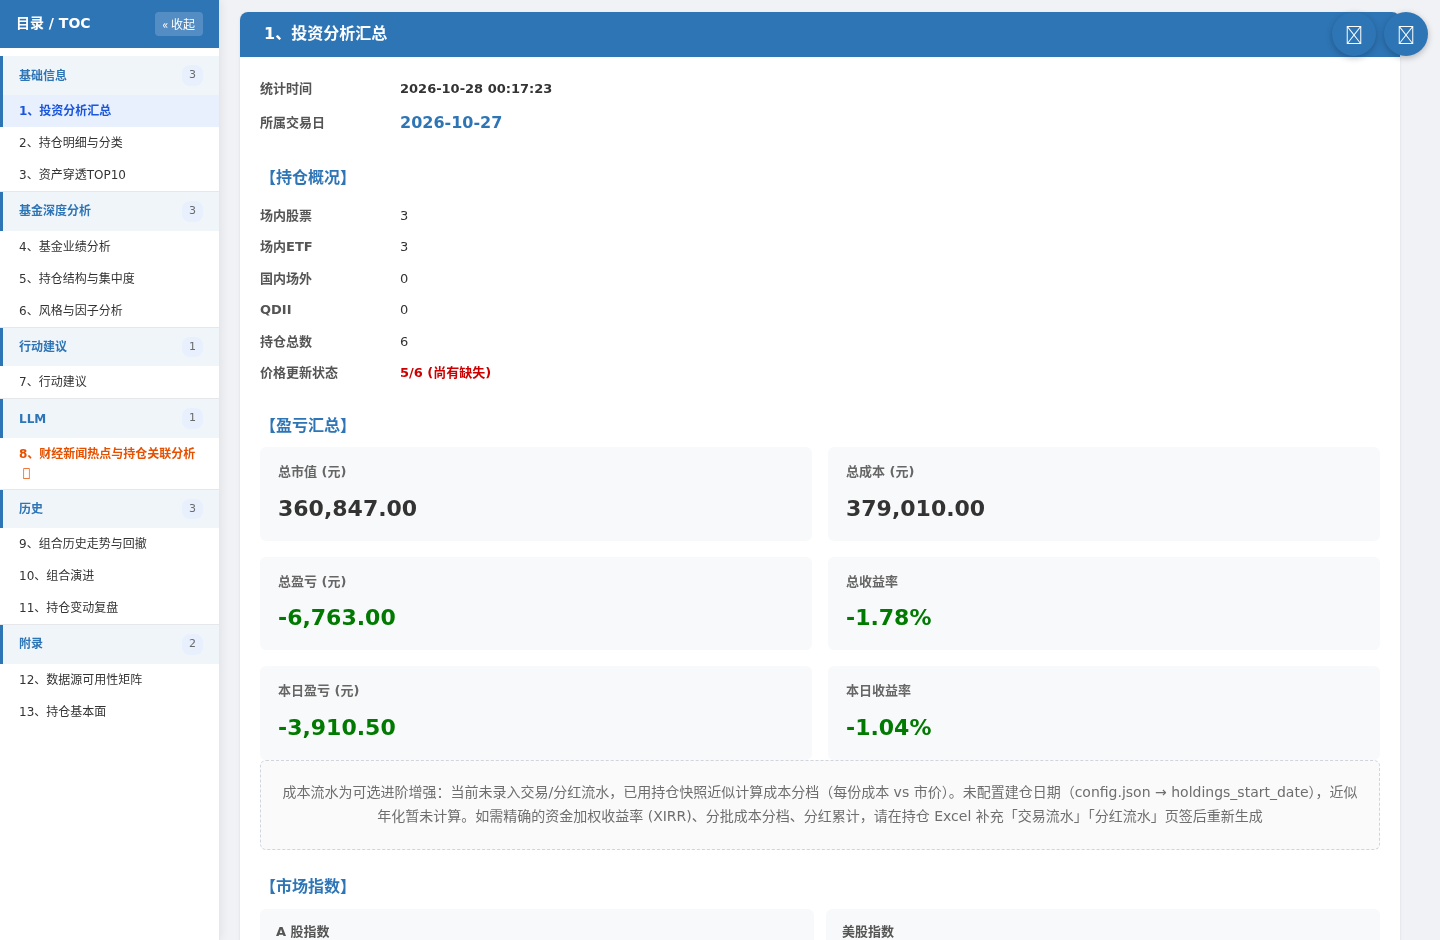
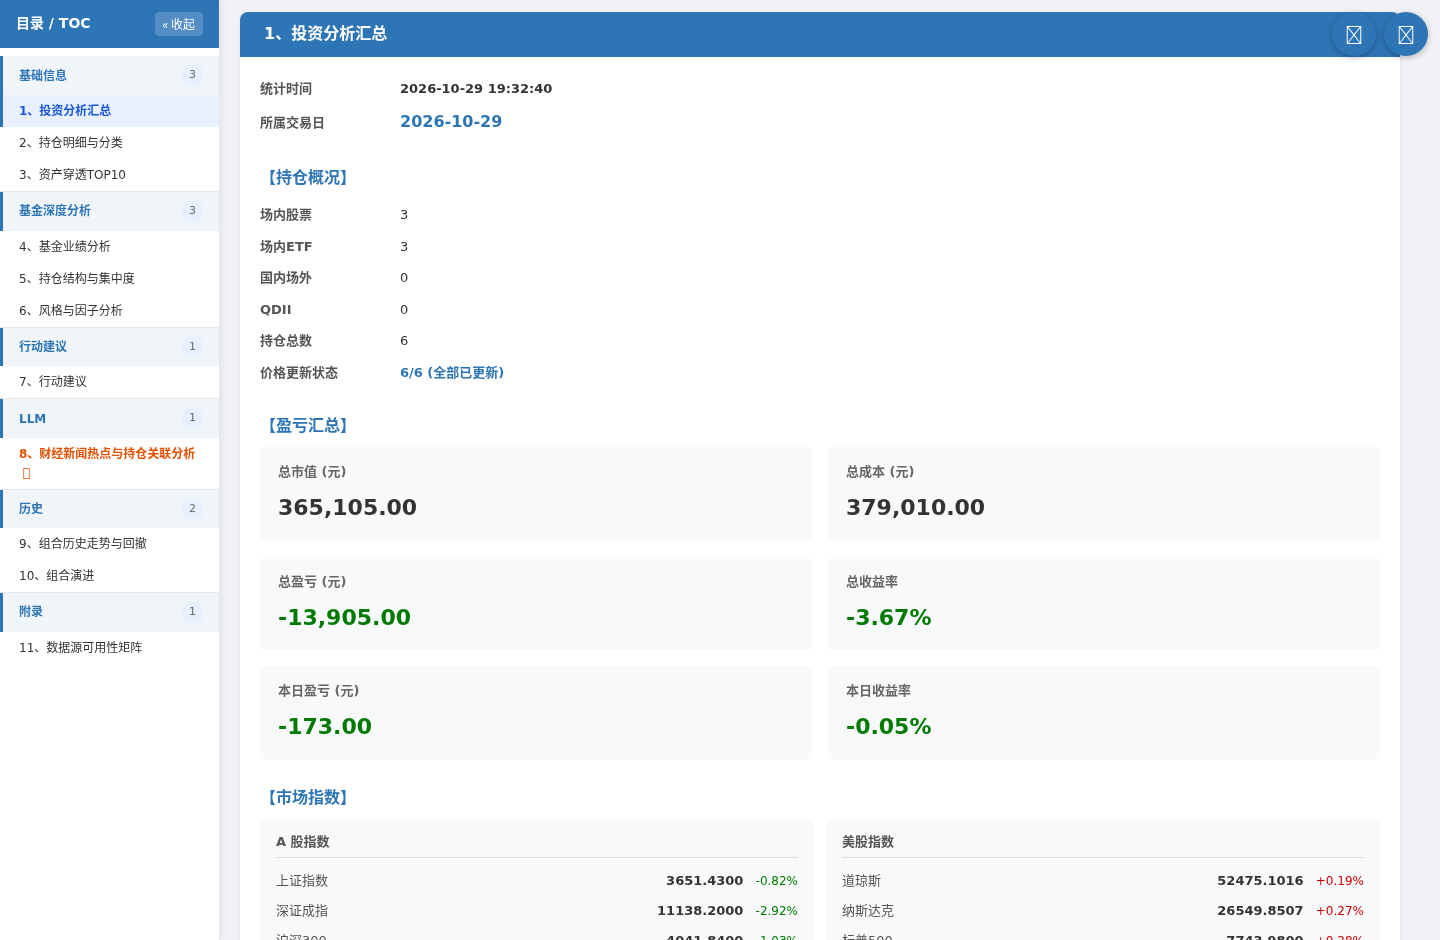
feat(screenshots): 演示截图流水线固化 + 按虚构持仓重拍全部配图
- demo 工作区补 src/ 软链：PROJECT_ROOT 搬到演示根后模板与静态资产仍可解析（修 HTML 报告 TemplateNotFound）
- make-screenshots.py web 新增 --serve-demo：自起演示服务（env 统一走 isolation_env），URL 端口自动替换
- 重拍 TUI / Web（工作台·持仓录入·配置）/ 报告（首屏·汇总·图表）/ CLI 共 8 张，全部来自虚构演示持仓（演示账户A/B、演示持仓.xlsx）
- README 新增 web-holdings.png 配图与链接；folders 目录树同步

diff --git a/scripts/make-screenshots.py b/scripts/make-screenshots.py
@@ -75,25 +75,69 @@ def _cli(args: argparse.Namespace) -> int:
 
 
 def _web(args: argparse.Namespace) -> int:
-    # 截图只允许对演示工作区（服务端须带 isolation_env 启动，见 demo_workspace 文档）
-    import os as _os
-
+    """无头截图；``--serve-demo`` 时自起演示服务（环境与工作区由本脚本统一注入）。"""
     demo_workspace.assert_demo_holdings()
-    if (
-        _os.environ.get("INVEST_PROJECT_ROOT")
-        and Path(_os.environ["INVEST_PROJECT_ROOT"]).resolve() != demo_workspace.demo_dir().resolve()
-    ):
-        print("  [ERR] INVEST_PROJECT_ROOT 未指向演示工作区，拒绝截图（防真实持仓入图）")
-        return 2
-    return web_shot.run(
-        args.url,
-        args.output,
-        scroll_y=args.scroll_y,
-        width=args.width,
-        height=args.height,
-        replace=args.replace,
-        chrome=args.chrome,
+    server = None
+    url = args.url
+    if args.serve_demo:
+        server, url = _start_demo_server(args.url)
+    try:
+        return web_shot.run(
+            url,
+            args.output,
+            scroll_y=args.scroll_y,
+            width=args.width,
+            height=args.height,
+            replace=args.replace,
+            chrome=args.chrome,
+        )
+    finally:
+        if server is not None:
+            server.terminate()
+            try:
+                server.wait(timeout=10)
+            except Exception:  # 收尾失败不影响截图结果
+                server.kill()
+
+
+def _start_demo_server(url: str) -> tuple:
+    """按演示工作区环境起 Web 服务，返回 (进程, 换成实际端口的 URL)。
+
+    环境统一走 ``demo_workspace.isolation_env``（含 ``INVEST_PROJECT_ROOT``），
+    避免手工拼 env 时漏项导致服务读到真实持仓。
+    """
+    import os as _os
+    import socket
+    import subprocess
+    import time
+    import urllib.request
+    from urllib.parse import urlparse, urlunparse
+
+    demo = demo_workspace.demo_dir()
+    with socket.socket() as sock:
+        sock.bind(("127.0.0.1", 0))
+        port = sock.getsockname()[1]
+    env = {
+        **_os.environ,
+        "PYTHONPATH": str(demo_workspace.REPO_ROOT),
+        **demo_workspace.isolation_env(demo),
+    }
+    server = subprocess.Popen(
+        [_os.sys.executable, "-m", "src.python.web", "--port", str(port)],
+        cwd=str(demo),
+        env=env,
+        stdout=subprocess.DEVNULL,
+        stderr=subprocess.DEVNULL,
     )
+    parsed = urlparse(url)
+    target = urlunparse(parsed._replace(netloc=f"127.0.0.1:{port}"))
+    for _ in range(60):
+        try:
+            urllib.request.urlopen(target, timeout=1).read(64)
+            break
+        except Exception:
+            time.sleep(0.5)
+    return server, target
 
 
 def build_parser() -> argparse.ArgumentParser:
@@ -135,6 +179,11 @@ def build_parser() -> argparse.ArgumentParser:
     web.add_argument("--height", type=int, default=940, help="视口高（默认 940）")
     web.add_argument("--replace", default="", help="截图前替换文本，写法 `原文=>替换`（用于抹除临时数据）")
     web.add_argument("--chrome", default=None, help="Chromium/Chrome 可执行文件（缺省按 CHROME_BIN 等次序解析）")
+    web.add_argument(
+        "--serve-demo",
+        action="store_true",
+        help="先按演示工作区环境自起 Web 服务再截图（URL 的 host:port 被替换为本机临时端口）",
+    )
     web.set_defaults(handler=_web)
     return parser
 

diff --git a/scripts/_screenshots/demo_workspace.py b/scripts/_screenshots/demo_workspace.py
@@ -167,6 +167,24 @@ def isolation_env(demo: Path) -> dict[str, str]:
     }
 
 
+def _link_repo_src(demo: Path) -> None:
+    """把仓库 ``src/`` 软链进演示根：``PROJECT_ROOT`` 指向演示根后，模板与静态资产仍可解析。
+
+    隔离的是「数据面」（``data/`` / ``reports/``），代码与模板资产不复制——
+    否则演示根会变成第二份源码树，容易与仓库漂移。
+    """
+    import os
+
+    link = demo / "src"
+    target = REPO_ROOT / "src"
+    if link.is_symlink() or link.exists():
+        return
+    try:
+        os.symlink(target, link, target_is_directory=True)
+    except OSError:
+        print(f"  [!] 无法创建 src 软链（Windows 需开发者模式）：{link}")
+
+
 def assert_demo_holdings(output_root: Path | None = None) -> Path:
     """护栏：演示持仓文件存在且位于演示目录内，否则拒绝继续（防截图读到真实持仓）。
 
@@ -195,6 +213,7 @@ def build(output_root: Path | None = None) -> Path:
     for path in (config_dir, demo / "reports"):
         path.mkdir(parents=True, exist_ok=True)
 
+    _link_repo_src(demo)
     _write_holdings(demo)
     _write_llm_files(demo)
     config = _config(demo)

diff --git a/docs/managements/folders.md b/docs/managements/folders.md
@@ -12,14 +12,14 @@
 | 主程序代码 | Python | 410 | 111,216 | `src/` 下所有 `.py`（不含测试：`src/__init__.py` 顶层包标记 + `src/python/` 下 15 个 `__init__.py`，含 `web/` 服务层；近期新增 `providers/tiantian_purchase.py` 天天基金申购状态总表 provider + `fetcher/fund_purchase.py` 申购状态取数编排（双链路/准入/会话复用） + `core/jsonl_store.py` JSONL 原子原语 + `core/signal_ledger.py` 确定性信号账本 + `report/signal_record.py` 信号登记适配器 + `core/num_utils.py` 数值归一原语 + `core/doctor.py` 系统自检 + `core/cassette.py` 请求回放引擎 + `core/datasource_credential.py` 数据源凭据声明 + `fetcher/source_adapter.py` 适配契约 + `fetcher/quote_adapters.py` 行情域适配器 + `llm/module_fingerprint.py` 模块指纹唯一事实来源 + `report/_experimental_seams.py` 实验挂载点 + `report/holdings_freshness.py` 持仓报告期时效判定 + `report/experimental_notice.py` 实验功能清单语句单源 + `core/trading_calendar.py` 交易日历原语（时间距离一律以交易日计） + `providers/datasink.py` 全文本财报 provider（密钥/限速/配额） + `providers/hithink.py` 同花顺金融数据服务 provider（A 股行情/财务/基金/情绪面；凭据/qps 限速/信封错误码） + `fetcher/financial_report.py` 财报取数编排 + `fetcher/report_adapters.py` 财报域适配器 + `report/financial_report_digest.py` 财报摘要章节装配 + `providers/akshare_financial.py` 结构化财务指标主源 + `fetcher/financial_indicator_adapters.py` 财务指标域适配器 + `core/code_symbols.py::to_fmp_symbol` 共享符号映射 + `providers/utils.py::run_with_timeout` 共享取数超时原语 + `analysis/financial_indicator_extract.py` 财务指标全文解析（压平正文锚点提取，备用支路） + `fetcher/financial_indicator.py` 财务指标多期取数编排 + `analysis/financial_indicator.py` 财务指标派生（质量档/趋势/当前 PE·PB） + `report/financial_indicator.py` 财务指标章装配 + `report/holdings_detail_sheet.py` 持仓明细与分类 Excel 页签 + `report/position_structure_sheet.py` 持仓结构与集中度 Excel 页签 + `report/fundamental_snapshot_sheet.py` 持仓基本面 Excel 页签（三者均为章节合并写入器） + `llm/compliance.py` 合规声明集中注入（幂等叠加，单一漏斗覆盖全模块）） |
 | HTML 报告模板 | HTML | 23 | 5,198 | `src/static/tmpl/report_template.html` + `whatif_template.html`（调仓 What-if 独立 HTML 页）+ `partials/`（章节级/区块级 partial，主模板按 TOC 六组经 Jinja include 拆入，清单见目录树 `partials/` 节点） |
 | 架构图示 | SVG | 4 | 396 | `src/static/` README 架构图（architecture 三渠道→引擎→双报告、llm-chain Provider 链式分发、capabilities 九大功能域总览、owl-mascot 吉祥物猫头鹰「守望」）+ 截图 7 张 PNG（报告实景 `report-overview`/`report-toc`/`report-charts` + 界面实景 `tui-menu`/`web-workbench`/`web-config`/`cli-report`，不计入本行） |
-| 辅助脚本 | Python | 135 | 26,688 | `scripts/`（启动脚本 + CLI 命令行包装、测试驱动、工具检查、任务编号检查、性能测试、LLM 幻觉率评测与因子目录评测、测试覆盖计数、代码/文档历史痕迹与结构性冗余检查、视觉资产（社交预览图/架构图体检）、语义命名索引校验、Claude Code hook 安装/校验、Web 冒烟脚本、push2 连通性诊断、SVG 架构图检查） |
-| 源代码合计 | — | 572 | 143,498 | 主程序 + 模板 + 脚本 + SVG |
+| 辅助脚本 | Python | 135 | 26,756 | `scripts/`（启动脚本 + CLI 命令行包装、测试驱动、工具检查、任务编号检查、性能测试、LLM 幻觉率评测与因子目录评测、测试覆盖计数、代码/文档历史痕迹与结构性冗余检查、视觉资产（社交预览图/架构图体检）、语义命名索引校验、Claude Code hook 安装/校验、Web 冒烟脚本、push2 连通性诊断、SVG 架构图检查） |
+| 源代码合计 | — | 572 | 143,566 | 主程序 + 模板 + 脚本 + SVG |
 | 测试代码 | Python | 678 | 185,737 | `src/test/` 所有 `.py` 文件（含近期 ruff format 全仓重排） |
 | 测试用例 | — | — | 12,769 个 | `pytest --collect-only` 统计（`scripts/test-collect-coverage.py` 实时收集快照，不含 opt-in live 套件） |
-| 用户文档 | Markdown | 15 | 6,849 | 含 README.md；行数为 README + manuals 之和 |
+| 用户文档 | Markdown | 15 | 6,851 | 含 README.md；行数为 README + manuals 之和 |
 | ├ manuals/ | 用户手册分册 | 14 | 6,631 | 配置/faq/快速上手/TUI/CLI/Web 三种模式指南等 |
-| 项目文档 | Markdown | 203 | 70,628 | 含 CLAUDE.md；md 口径为 CLAUDE.md + `managements/` + `plan/` + 版本归档之和（分项见下方三行），py/txt 不计行 |
-| ├ managements/ | 管理文档 | 13 | 13,870 | 变更日志/目录树/测试计划/技术设计/开发者指南等 |
+| 项目文档 | Markdown | 203 | 70,630 | 含 CLAUDE.md；md 口径为 CLAUDE.md + `managements/` + `plan/` + 版本归档之和（分项见下方三行），py/txt 不计行 |
+| ├ managements/ | 管理文档 | 13 | 13,872 | 变更日志/目录树/测试计划/技术设计/开发者指南等 |
 | ├ archive/ | 版本归档 | 185 | 55,990 | 各版本 changelog/plan/review-findings 与设计文档归档（含 Vibe-Trading/gs-quant/TradingAgents 借鉴批候选研究、基金申购限购三份设计与 LLM 成本调节/自检/源指定设计） |
 | ├ plan/ | 中间设计文件 | 4 | ~675 | 在办设计文档（扁平存放）：Jev 新闻关联判定（对照评测 + 类型化通道设计）+ 决策跨期反思闭环设计 |
 | └ tmp/ | 临时文件 | — | — | 调试产物、迁移暂存（git 忽略，不计入统计） |
@@ -542,6 +542,7 @@ investor-review/
 │   │   ├── report-charts.png         #   README 报告效果截图：穿透行业分布与 TOP10 持仓资产交互图表
 │   │   ├── tui-menu.png              #   README 界面实景：TUI 全键盘主菜单（页头状态行）
 │   │   ├── web-workbench.png         #   README 界面实景：Web 工作台生成报告页签（上传→选格式→生成）
+│   │   ├── web-holdings.png          #   README 界面实景：Web 持仓录入页签（账户/标的/份额或金额 → 变更清单 → 写回）
 │   │   ├── web-config.png            #   README 界面实景：Web 配置编辑面板（与 TUI 菜单同源）
 │   │   ├── cli-report.png            #   README 与 CLI 手册共用：CLI 生成回显（产物路径 / 盈亏汇总 / 耗时排行）
 │   │   ├── social-preview.jpg        #   GitHub 社交预览图 1200×630（猫头鹰左卡 + 品牌文案；make-assets.py social-preview 生成）

diff --git a/docs/managements/changelog.md b/docs/managements/changelog.md
@@ -25,6 +25,7 @@
 
 - Web 渠道持仓录入（`plan-239`）：新增「持仓录入」页签与 `GET /api/holdings`、`POST /api/holdings/preview`、`POST /api/holdings/save`；与 TUI `[U]` 共用 `core/holdings_editor` + `fetcher/nav_lookup`，支持账户/新代码/场内场外/份额或申购金额/价格留空取行情或净值；预览不落盘，写回走 mtime 闸门（409 `HOLDINGS_STALE`）+ `.bak` + 原子写 + 回读校验，可选记入交易流水。
 
+- 演示截图流水线可重复执行：`demo` 工作区补 `src/` 软链（`PROJECT_ROOT` 搬到演示根后模板/静态资产仍可解析，报告 HTML 不再 `TemplateNotFound`）；`make-screenshots.py web --serve-demo` 自起演示服务（环境统一走 `isolation_env`，不再手工拼 env）；README 配图按虚构持仓重拍（TUI / Web 工作台·持仓录入·配置 / 报告首屏·汇总·图表 / CLI），新增 `web-holdings.png`。
 - 截图/演示隔离补全（rf-973）：`PROJECT_ROOT` 支持 `INVEST_PROJECT_ROOT` 覆盖，演示工作区整体搬根（配置/持仓/产物同在演示目录）；`make-screenshots.py` 增加 `assert_demo_holdings()` 护栏，环境没带上即拒绝出图，杜绝真实持仓入图。
 
 ### 重构

diff --git a/README.md b/README.md
@@ -71,6 +71,8 @@
 
 **Web 配置编辑面板**（与 TUI 菜单同源，即改即存）：
 
+![Web 持仓录入：选账户/标的、填份额或申购金额，变更清单确认后写回](src/static/web-holdings.png)
+
 ![Web 配置编辑](src/static/web-config.png)
 
 **CLI 命令行模式**——参数驱动（`report --type basic|both|full`），产物路径、总盈亏与模块耗时排行直接回显，适合 cron / Windows 任务计划无人值守：
